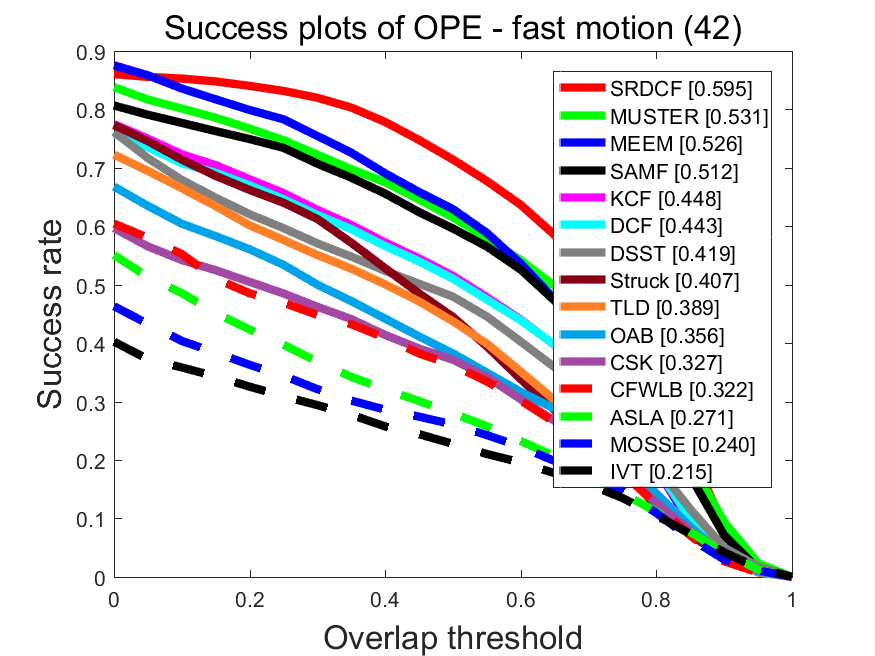
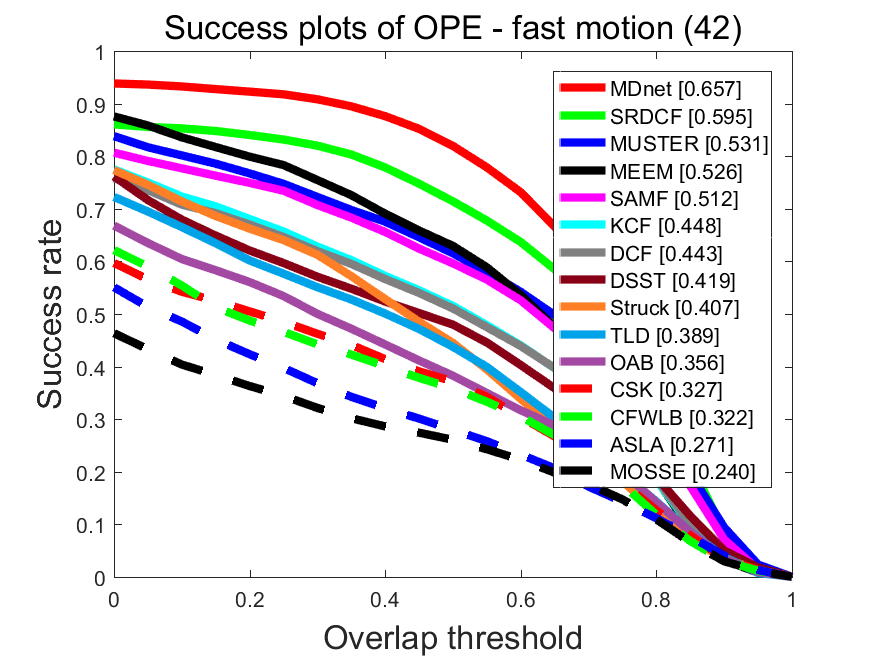
add tracker results and fixed files of MDnet

diff --git a/perfPlot_TB100.m b/perfPlot_TB100.m
@@ -15,7 +15,7 @@ plotDrawStyleAll={   struct('color',[1,0,0],'lineStyle','-'),...
     struct('color',[0,1,0],'lineStyle','-'),...
     struct('color',[0,0,1],'lineStyle','-'),...
     struct('color',[0,0,0],'lineStyle','-'),...%    struct('color',[1,1,0],'lineStyle','-'),...%yellow
-    struct('color',[1,0,1],'lineStyle','-'),...%pink
+    struct('color',[1,0,1],'lineStyle','-'),...%    pink
     struct('color',[0,1,1],'lineStyle','-'),...
     struct('color',[0.5,0.5,0.5],'lineStyle','-'),...%gray-25%
     struct('color',[136,0,21]/255,'lineStyle','-'),...%dark red

diff --git a/util/configTrackers.m b/util/configTrackers.m
@@ -45,6 +45,7 @@ trackersECCV = { struct('name','ASLA','namePaper','ASLA'),....
         struct('name','OAB','namePaper','OAB'),...
         struct('name','SAMF','namePaper','SAMF'),...
         struct('name','CFWLB','namePaper','CFWLB'),...
+        struct('name','MDnet','namePaper','MDnet'),...
         struct('name','SRDCF','namePaper','SRDCF'),...
         struct('name','Struck','namePaper','Struck'),...
         struct('name','TLD','namePaper','TLD')}; 
